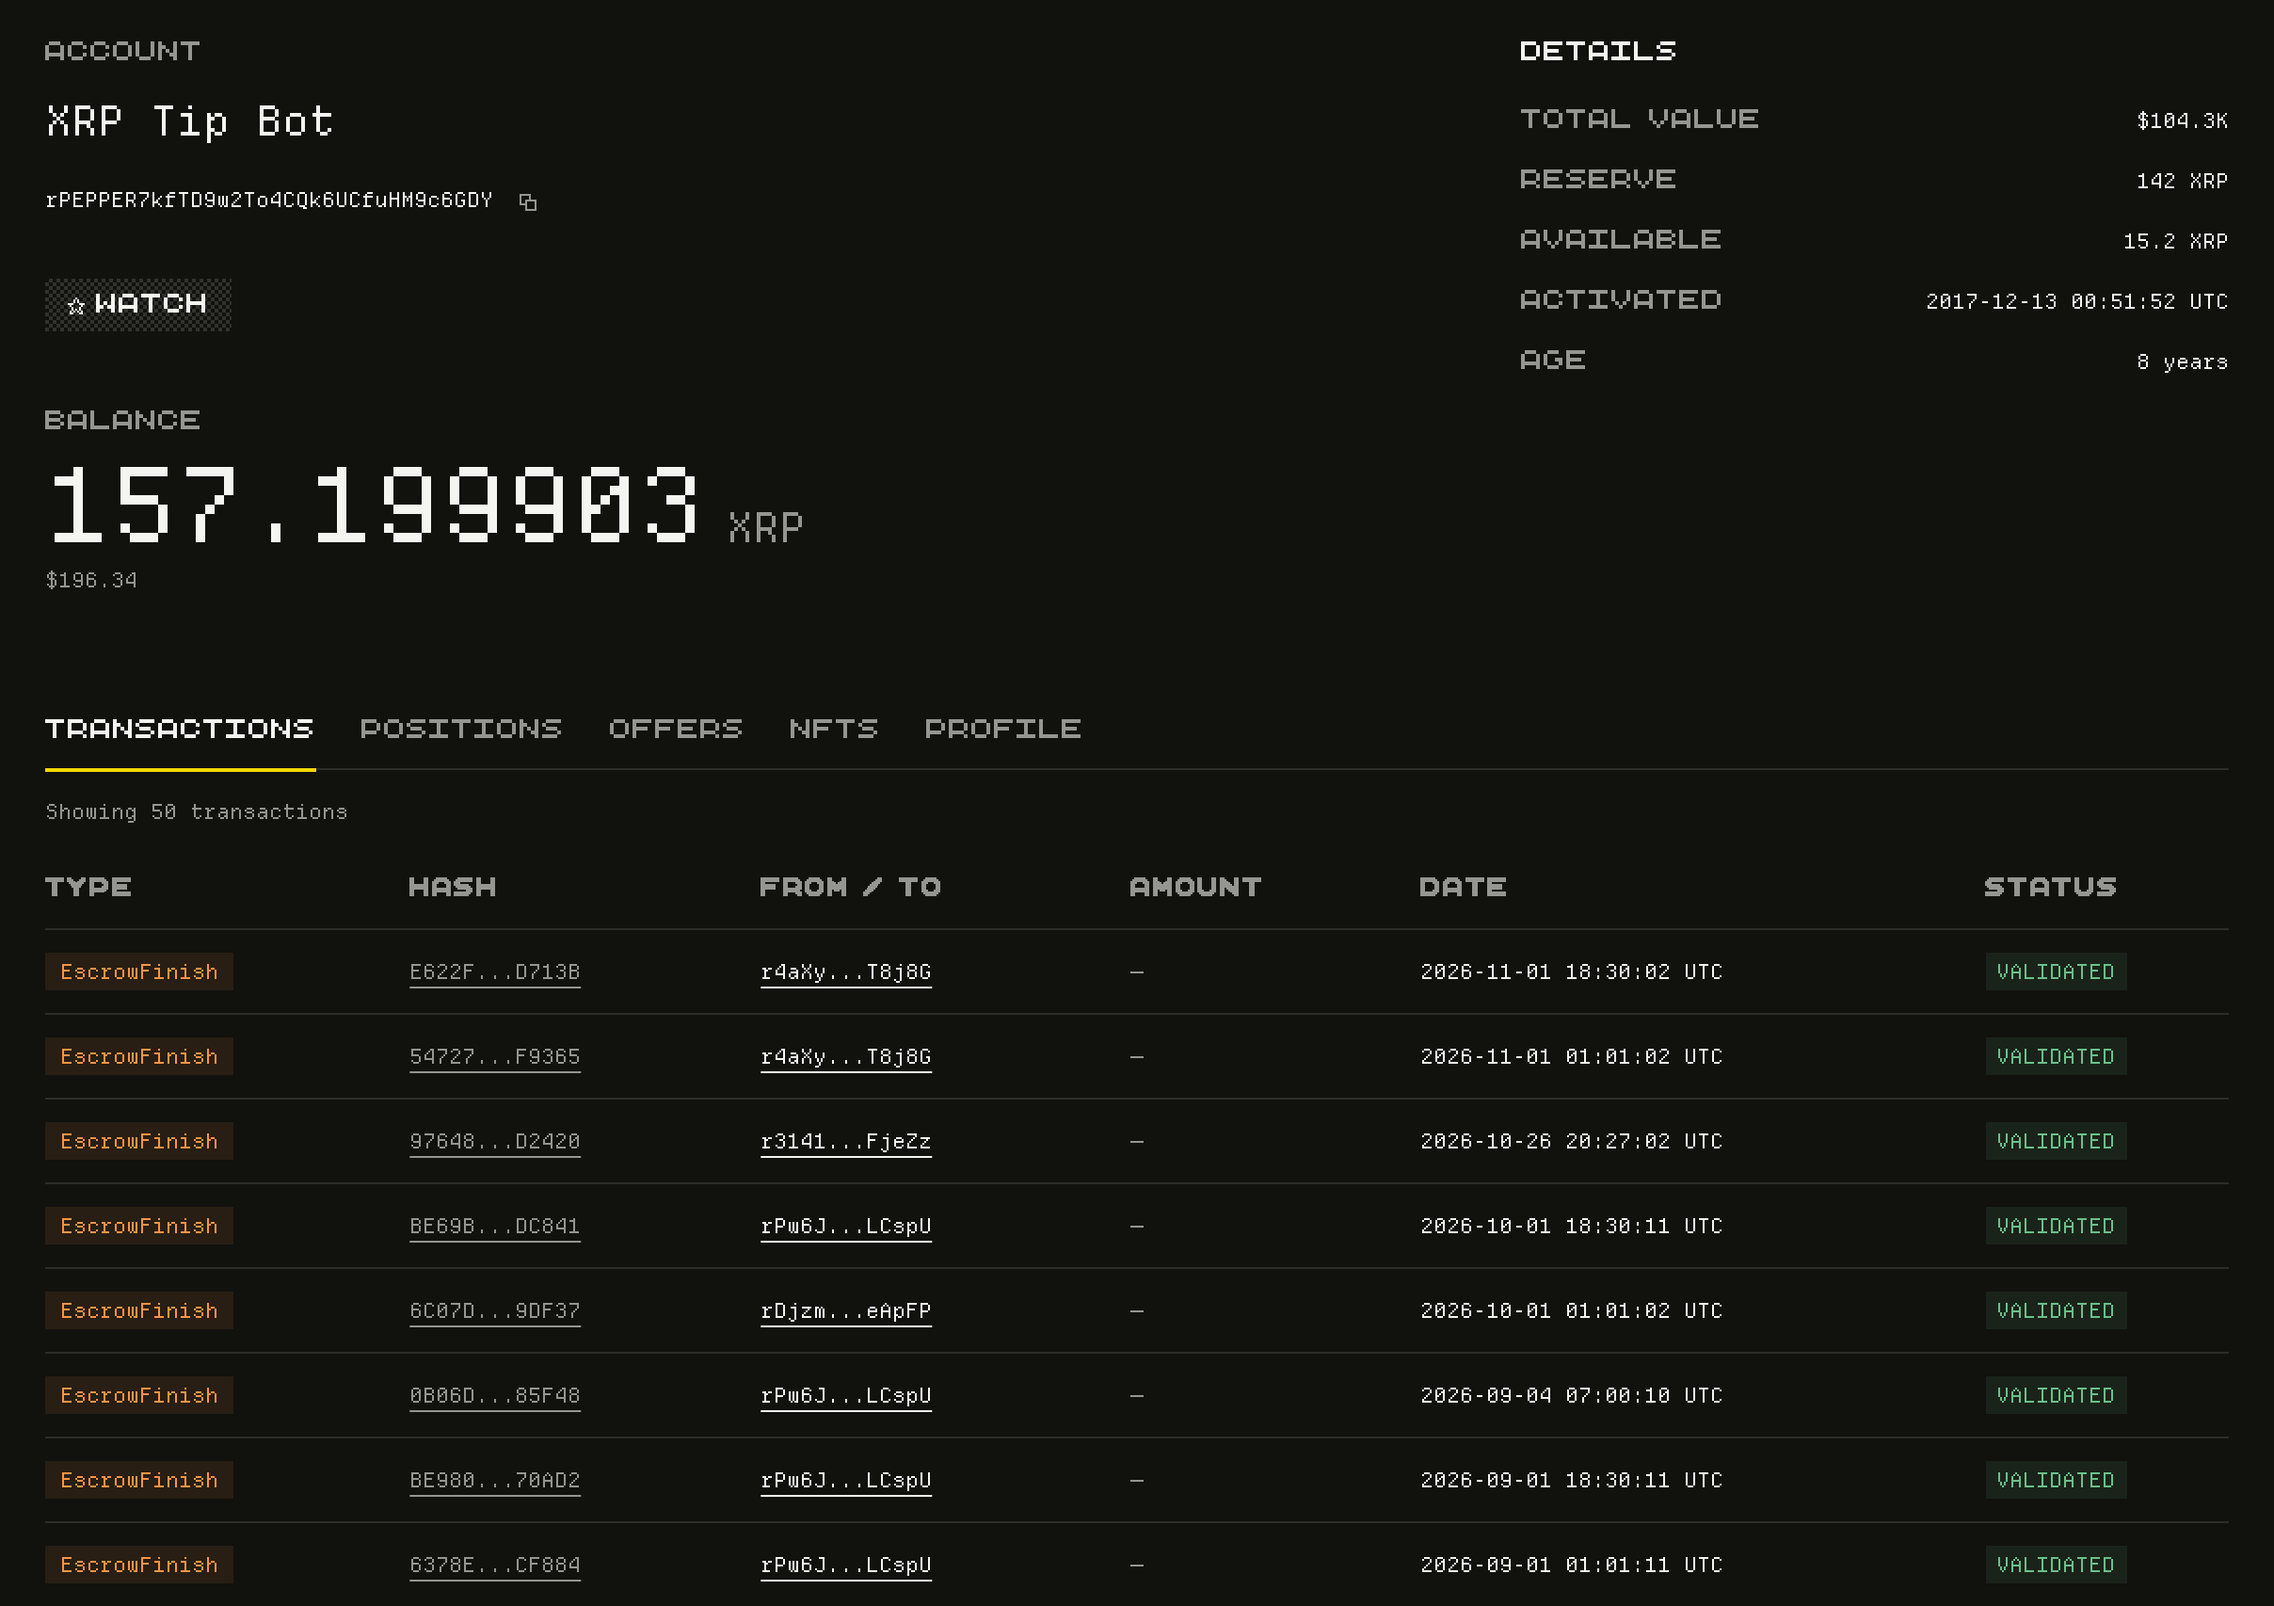
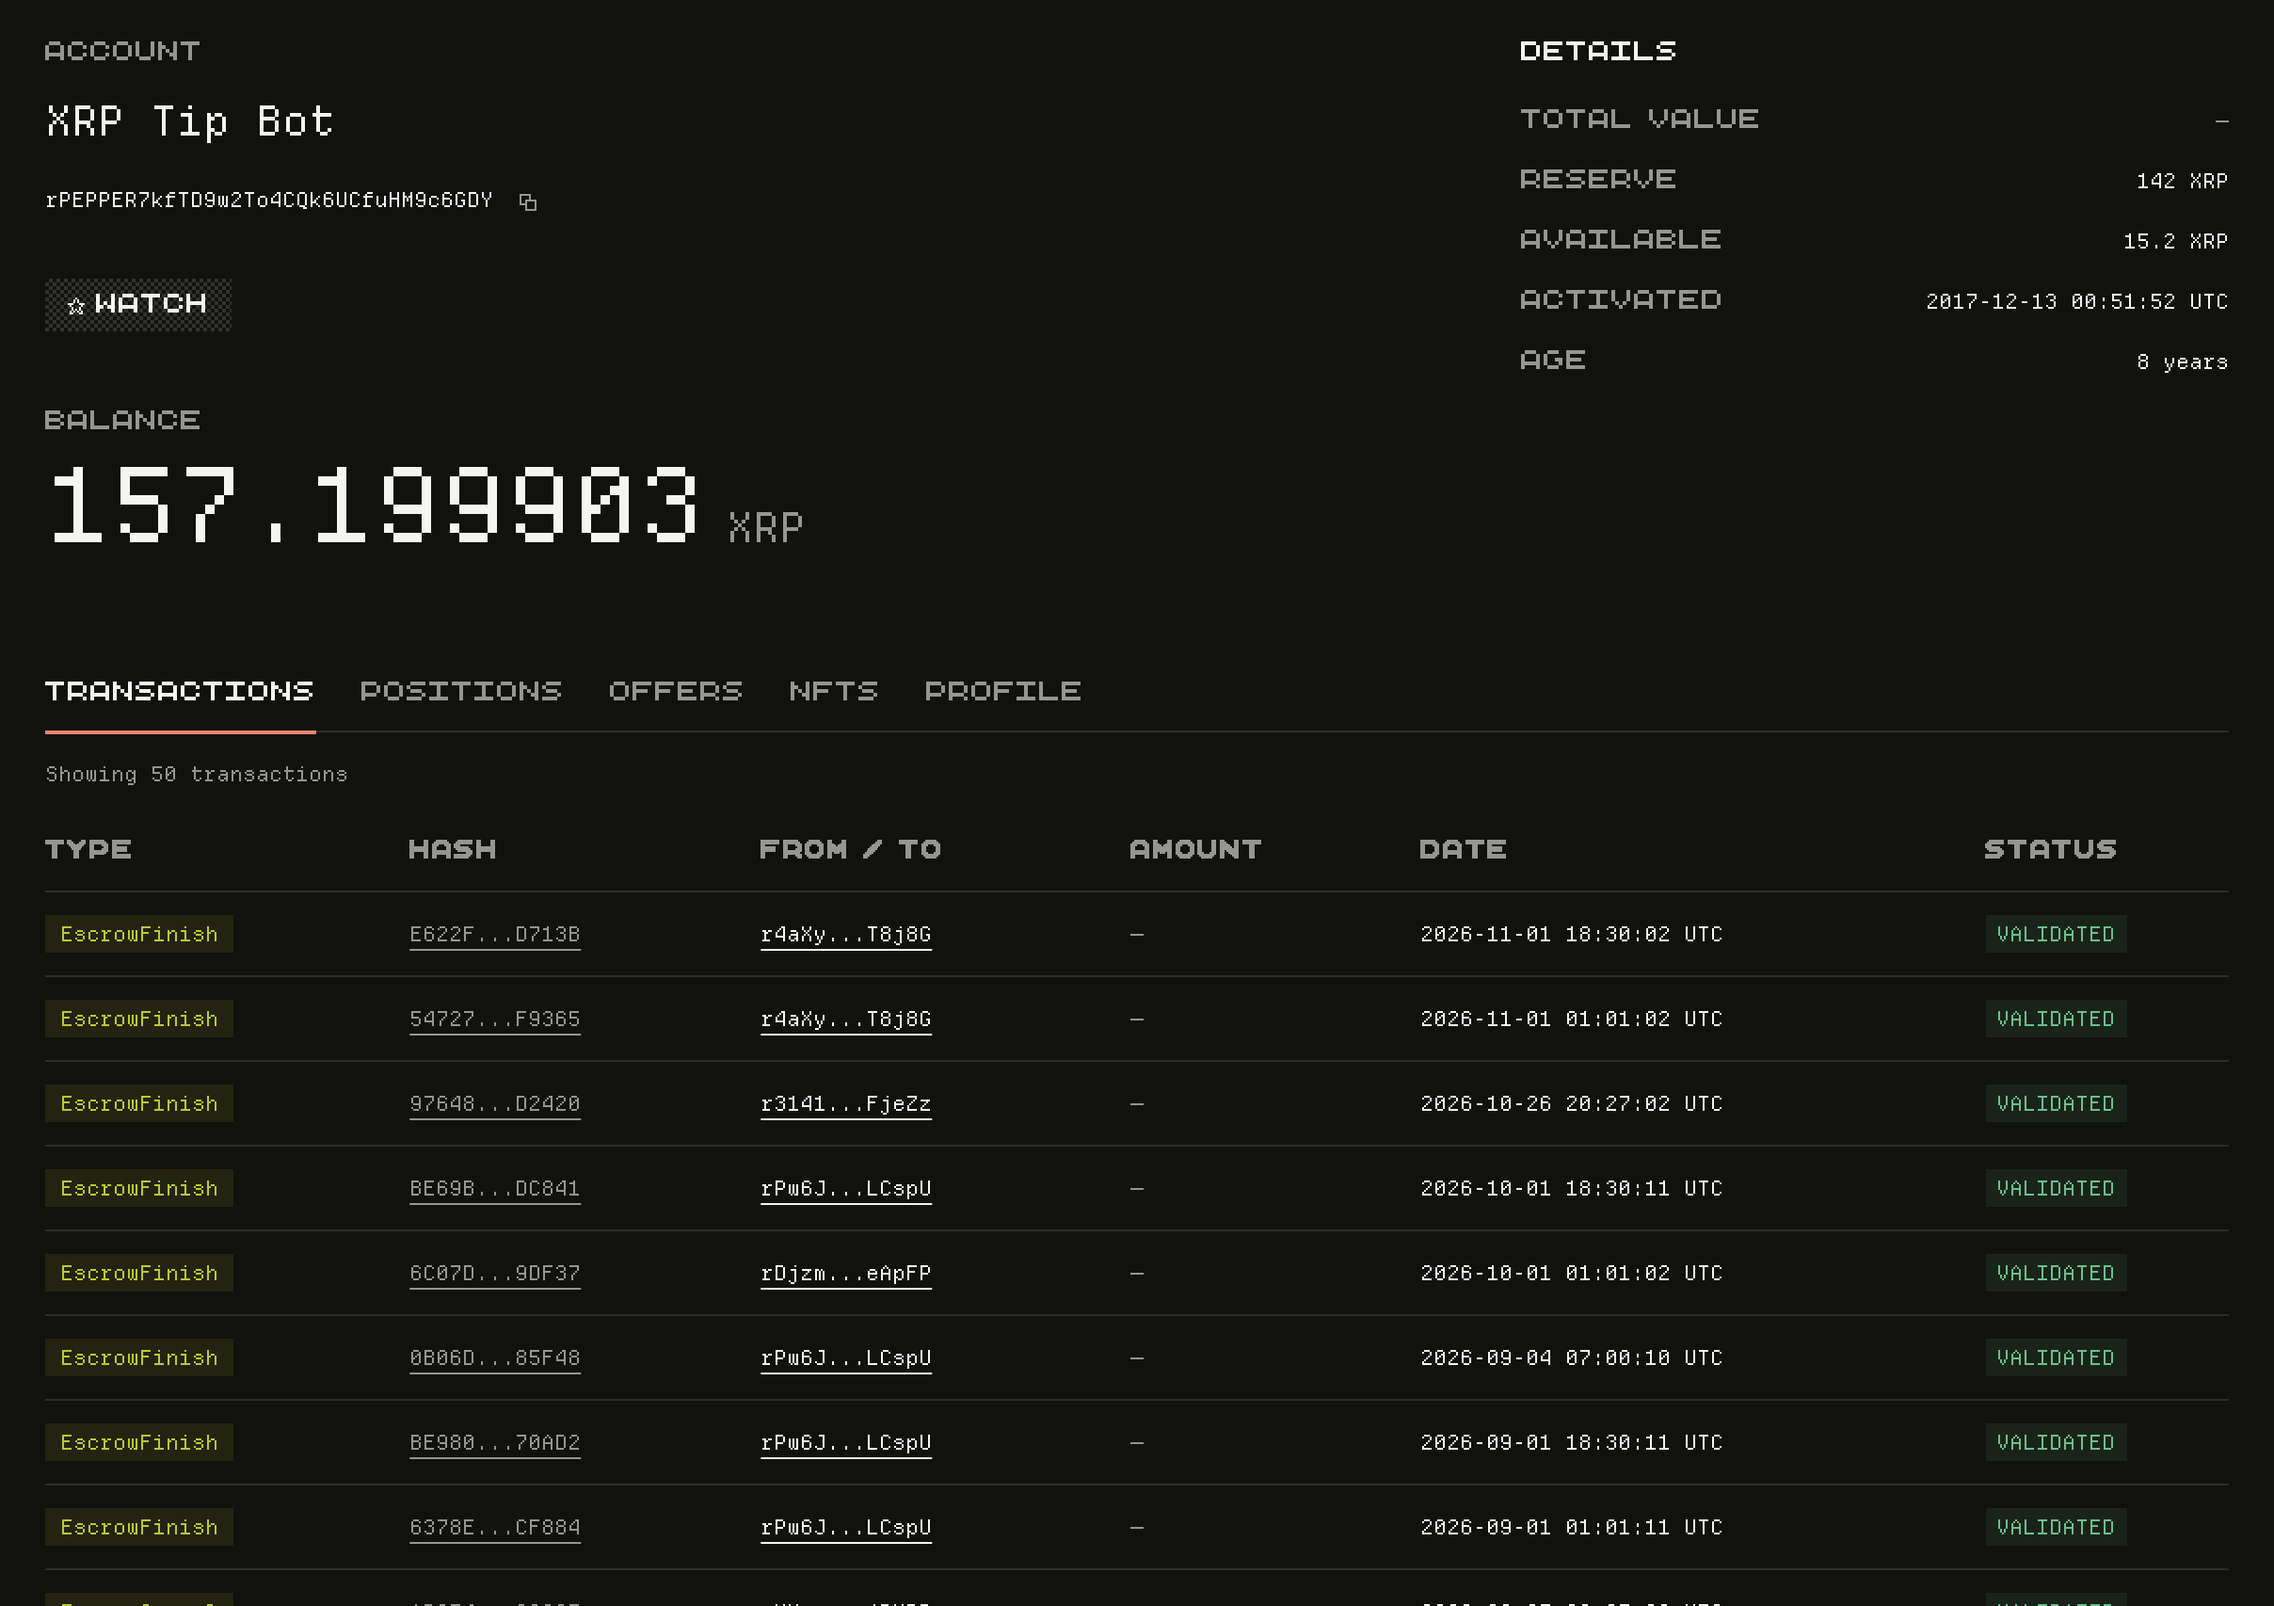
Sonde study in coral: screens, cover and brand kit (PX-145, 0250)
Screens recaptured from Sonde's coral build with the same cuts; the
cover's mark and glow are coral; the brand images come from the coral
social kit. Copy names coral as the first version's accent, PMS 486 C,
and the library's 200 files. Only the Sonde tile changes in the Work
share image; the other share images stay as committed.

diff --git a/src/lib/work.ts b/src/lib/work.ts
@@ -400,7 +400,7 @@ const source: Source[] = [
     blocks: [
       { type: 'text', title: 'One search box', paras: [
         "There’s one search box for everything. It takes an address, a transaction hash, a ledger number, an NFT ID, or a token name and works out which one you meant.",
-        "On a phone, away from the home page, search is a yellow button in the bottom corner. The box opens at the bottom of the screen, within reach of a thumb, with matching tokens listed above it. Tables drop the columns that don’t fit, and an account’s tabs fold into a menu."
+        "On a phone, away from the home page, search is a coral button in the bottom corner. The box opens at the bottom of the screen, within reach of a thumb, with matching tokens listed above it. Tables drop the columns that don’t fit, and an account’s tabs fold into a menu."
       ] },
       { type: 'gallery', note: 'On a phone: home, search with token suggestions, an account, and an NFT.', rows: [[
         sn('mobile-home', 780, 1688, 'Sonde on a phone: the search box over the pixel globe'),
@@ -429,20 +429,20 @@ const source: Source[] = [
       { type: 'gallery', note: 'The network page: the XRP price on a pixel chart, the server’s status, and the latest ledgers as they close.', rows: [[sn('network', 2416, 1676, 'Sonde network page: the XRP price on a pixel line chart, market and server figures, and the latest ledgers', [1616, 960])]] },
       { type: 'text', title: 'A pixel identity', paras: [
         "The new Sonde is drawn on whole pixels, in the visual language of Toolbox, my design app. Sonde’s own headings and labels are set in PARC Pixel, a typeface I drew, and all ledger data and text in Departure Mono. Shapes are square with hard 1px edges, and dither fills stand in for boxes.",
-        "Yellow marks only the main action and where you are. Each transaction family has its own color, tuned in OKLCH and checked for contrast in the dark and light themes. Icons, the logo, and the globe sit on the same pixel grid."
+        "Coral, the first version’s accent, marks only the main action and where you are. Each transaction family has its own color, tuned in OKLCH and checked for contrast in the dark and light themes, and errors are rose so they never read as coral. Icons, the logo, and the globe sit on the same pixel grid."
       ] },
       { type: 'gallery', note: 'The account page in the light theme.', rows: [[sn('account-light', 2416, 1706, 'Sonde account page in the light theme: the same balance, details, and transactions on a light ground', [1576, 656])]] },
       { type: 'text', title: 'Logo and brand kit', paras: [
-        "I built the logo files with Toolbox’s lockup tool: 193 files across the horizontal, stacked, mark, and wordmark versions, for print and web. The yellow is PMS 7405 C, the ink Neutral Black C. A social kit adds avatars and banners for eight platforms on dark, yellow, and light grounds."
+        "I built the logo files with Toolbox’s lockup tool: 200 files across the horizontal, stacked, mark, and wordmark versions, for print and web. The coral is PMS 486 C, the ink Neutral Black C. A social kit adds avatars and banners for eight platforms on dark, coral, and light grounds."
       ] },
       { type: 'gallery', note: 'Banners and avatars from the social kit, on its three grounds.', rows: [
         [so('brand/banner-dark.png', 3000, 1000, 'Sonde banner on the dark ground: the logo, “A free, easy-to-read explorer for the XRP Ledger,” and the pixel globe')],
-        [so('brand/banner-yellow.png', 3000, 1000, 'Sonde banner on the yellow ground'), so('brand/banner-light.png', 3000, 1000, 'Sonde banner on the light ground')],
-        [so('brand/avatar-dark.png', 1080, 1080, 'Sonde avatar: the yellow mark on ink'), so('brand/avatar-yellow.png', 1080, 1080, 'Sonde avatar: the ink mark on yellow'), so('brand/avatar-light.png', 1080, 1080, 'Sonde avatar: the ink mark on paper')]
+        [so('brand/banner-coral.png', 3000, 1000, 'Sonde banner on the coral ground'), so('brand/banner-light.png', 3000, 1000, 'Sonde banner on the light ground')],
+        [so('brand/avatar-dark.png', 1080, 1080, 'Sonde avatar: the coral mark on ink'), so('brand/avatar-coral.png', 1080, 1080, 'Sonde avatar: the ink mark on coral'), so('brand/avatar-light.png', 1080, 1080, 'Sonde avatar: the ink mark on paper')]
       ] },
       { type: 'text', title: 'The first version', paras: [
         "The first Sonde was a bigger product: Next.js in front of PostgreSQL, ClickHouse, and Neo4j. It had portfolio tracking, wallet scoring, fund tracing through up to six transfers, and Ask the Ledger, which answered questions in plain English with Claude. It launched with paid portfolio and investigation tools. Later the whole explorer went free, with the questions on a $5-a-month Pro plan.",
-        "It used a dark slate ground and a salmon accent, with Satoshi, DM Sans, and IBM Plex Mono. I shut it down in July 2026. It cost more to run than subscriptions brought in, and it had lost direction: too many features, no clear idea who they served, and little use."
+        "It used a dark slate ground and a coral accent, with Satoshi, DM Sans, and IBM Plex Mono. I shut it down in July 2026. It cost more to run than subscriptions brought in, and it had lost direction: too many features, no clear idea who they served, and little use."
       ] },
       { type: 'gallery', note: 'The first version’s account page, with a smart money score, a risk profile, and a counterparty graph.', rows: [[desk(sc('account-overview', 1786, 1254, 'The first Sonde’s account page: balance, smart money score, risk profile, and counterparty graph'))]] },
       { type: 'gallery', note: 'A wallet’s score out of 100 and what went into it.', rows: [[sc('smart-money-detail', 1786, 728, 'The first Sonde’s Smart Money detail: a score of 64 out of 100, its score factors, and score history', [887, 728])]] },
@@ -452,7 +452,7 @@ const source: Source[] = [
         "So I kept the explorer and set the rest aside. Scoring, fund tracing, and the questions are shelved, and Sonde is free with no sign-in. The balance-first account page is the one layout that came through, redrawn in the new identity."
       ] },
       { type: 'gallery', note: 'The balance, in the first version and now.', rows: [[
-        sc('account-balance', 1248, 413, 'The first Sonde’s balance card: 157.199903 XRP in salmon, in a rounded card on dark slate', [752, 309]),
+        sc('account-balance', 1248, 413, 'The first Sonde’s balance card: 157.199903 XRP in coral, in a rounded card on dark slate', [752, 309]),
         sn('account-balance', 1576, 656, 'The new Sonde’s balance: 157.199903 XRP in Departure Mono, on the page ground with no card')
       ]] },
       { type: 'text', title: 'Outcome', paras: [

diff --git a/docs/decision-log.md b/docs/decision-log.md
@@ -2946,3 +2946,11 @@ Seeing it, Timothy asked for “slightly darker”. Five candidates were rendere
 - **Change:** `APP.version` and the Windows and Linux `VERSIONS` are 1.2.8, so all eight download links follow. `toolbox-options.ts` synced from the 1.2.8 CLI: only its header line changes.
 - **Samples:** `samples.mjs` rerun with 1.2.8. Lockup's zip changes only its EPS creator lines ("Toolbox 1.2.8"); Palette, Specimen and Convert are byte-identical.
 - **Status:** published on 2026-11-01 with the v1.2.8 GitHub release.
+
+
+## 0250: Sonde's coral is back (2026-11-01)
+
+- **Timothy's direction:** in the Sonde repo, "can you show me sonde but with the original sonde brand color instead of the yellow?" Shown the first Sonde's coral (`#E8856C`) in place of the yellow, with error moved to rose and escrow to lime so nothing else reads as coral, he chose "2": go coral, update the portfolio, swap the brand kits. He gave no other reason.
+- **Change:** the study's screens are recaptured from the coral build with the same cuts; the cover's mark and glow are coral; the brand images are the coral social kit (`banner-coral`, `avatar-coral` replace the yellow pair). Copy: the phone search button is coral; "A pixel identity" names coral as the first version's accent and says errors are rose; "Logo and brand kit" gives PMS 486 C, coral grounds, and 200 files (the library holds 200 and a README; the study said 193). The first version's accent is now called coral, not salmon: it is the same `#E8856C`.
+- **Assistant's choices (proposed, awaiting his review):** the copy lines; PMS 486 C, picked by ΔE2000 from pantonr's coated Lab data (3.42; next is 170 C at 5.66), not checked against a physical guide.
+- **Status:** committed, not pushed (2026-11-01). It should go out with Sonde's own push, so the study matches the live site.

diff --git a/docs/iteration-log.md b/docs/iteration-log.md
@@ -1371,3 +1371,12 @@ Pushed on 2026-11-01, after the v1.2.8 GitHub release was public.
 - **Downloads:** `APP.version` and the Windows and Linux `VERSIONS` are 1.2.8; `toolbox-options.ts` from the 1.2.8 binary (header only).
 - **Samples:** Lockup's zip and manifest remade with 1.2.8 (EPS creator lines only); the other three manifests change only their `generated` line.
 - **Checks:** `pnpm check` 0/0, 44 tests, build, `seo:check` (in a worktree holding only these changes).
+
+
+## PX-145: Sonde in coral (2026-11-01, 0250)
+
+- **Screens:** recaptured at 1440 × 2 and 390 × 2 from a local build of Sonde's coral commit (`692229d6`) on the live relay, cut with PX-138's boxes, so every file keeps its size. Ledger, transaction and NFT show the same data as before; the rest is live. The ledger phone crop, the transaction phone crop and both NFT crops hold no accent and came out byte-identical.
+- **Brand:** `banner-coral.png` and `avatar-coral.png` replace the yellow pair; dark and light remade from the coral kit (Bluesky 3000px, Instagram 1080px).
+- **Cover:** `marks/sonde-horizontal-dark.svg` mark `#E8856C`, glow `232,133,108`; phone crop recut.
+- **Share:** only the Work collage's Sonde tile changes. `social:generate` ran with the uncommitted hero work (0247, 0248) in the tree, so the new tile was pasted into the committed `work.png` and the other share images were left as committed.
+- **Checks:** `pnpm check` 0/0, 44 tests, build, `social:verify` PASS. All 22 study images load, no horizontal overflow, both themes checked.
